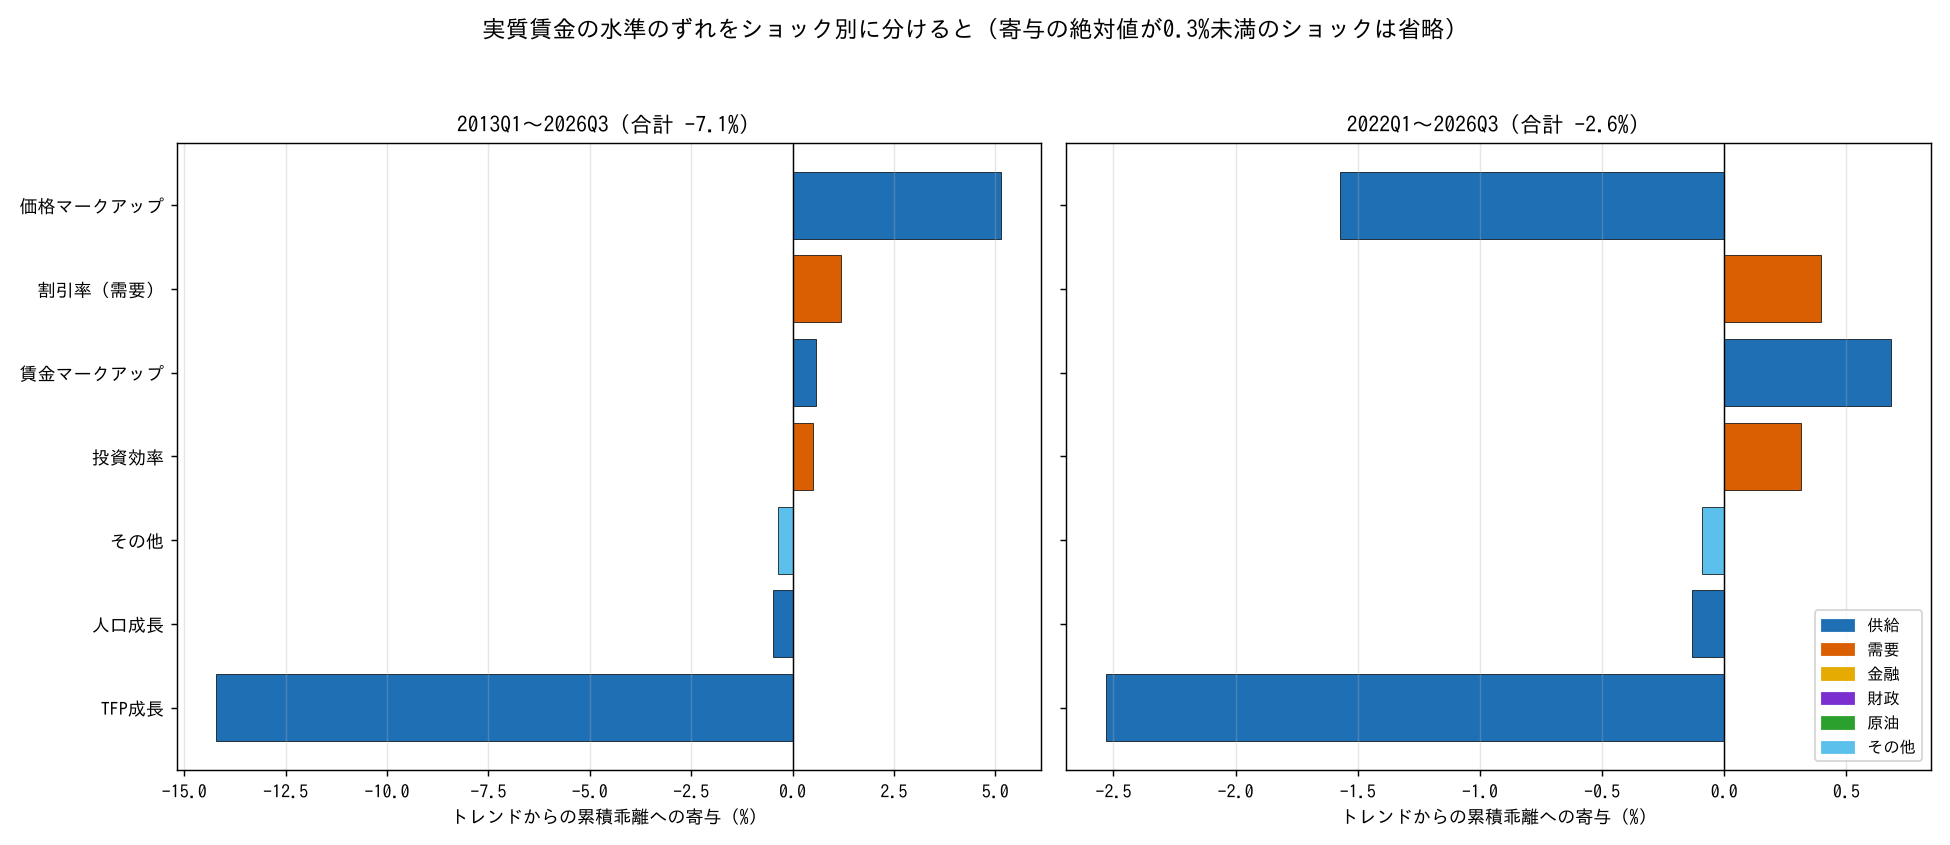
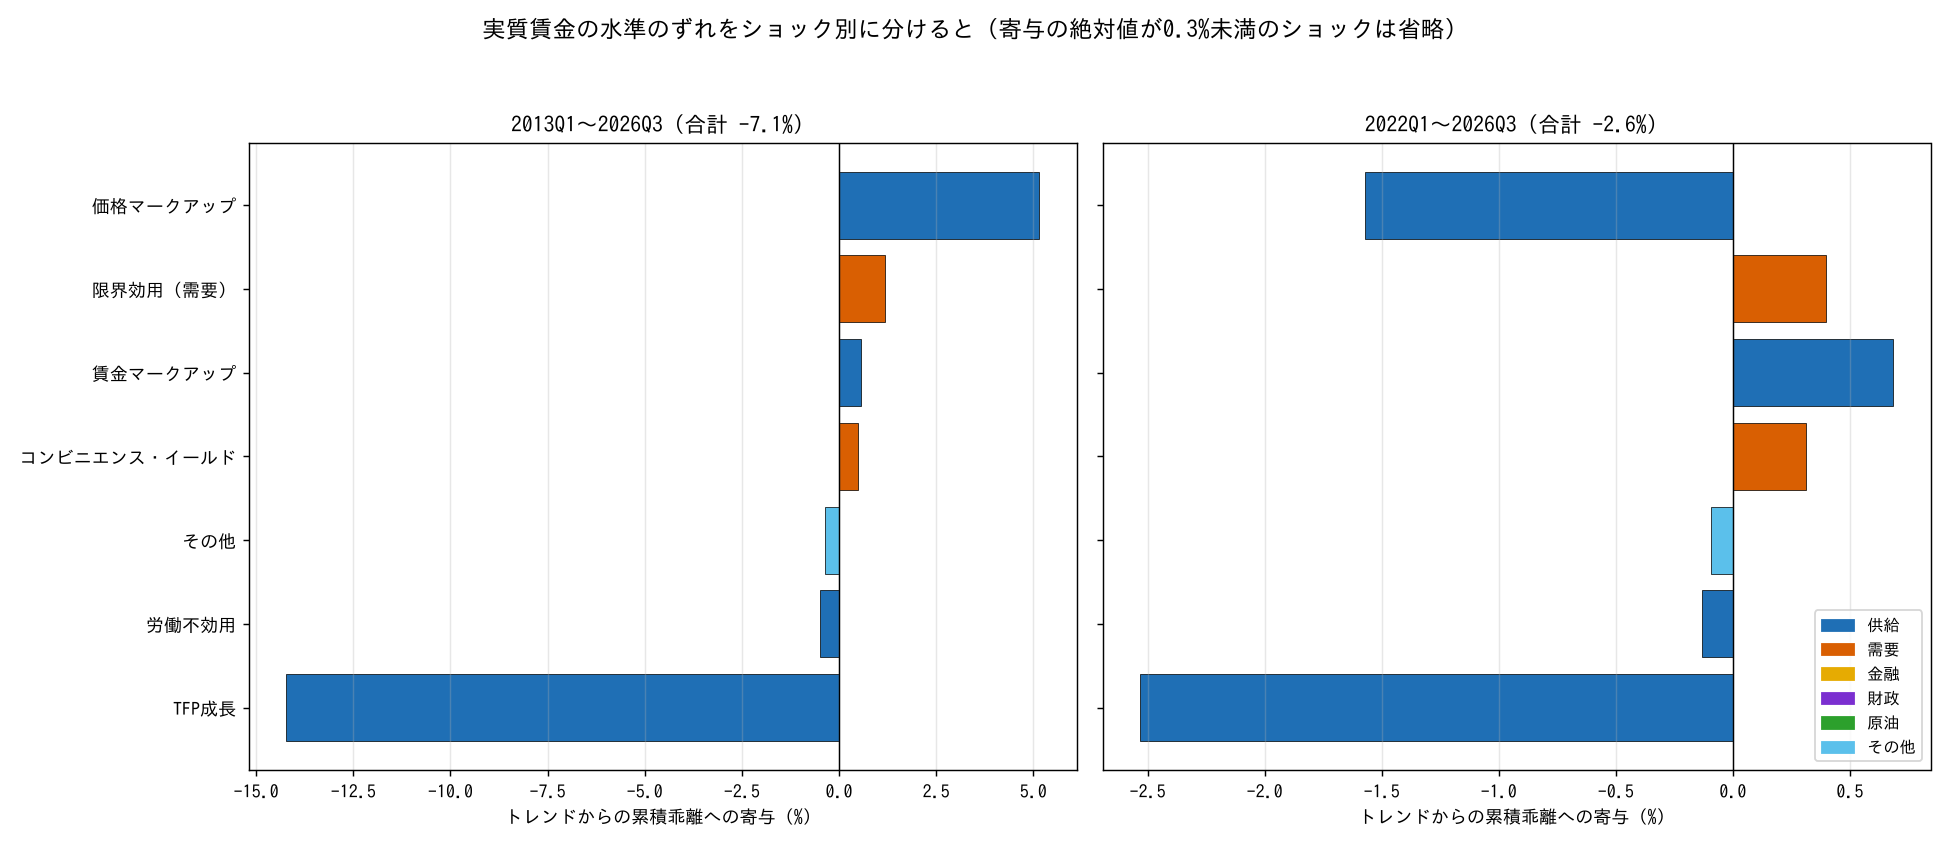
検討: 日本の年次TFP（PWT）を観測に足して実質賃金の分解を確かめる
jp/tfp_jp.py: PWT 11.0 の TFP を労働増大型に変換し、GZ の6期ラグで年平均の伸びとして観測。
測定誤差1/0.25/0.03%ptで比較。データの TFP は2013〜23年に平均並み(+0.2%)、モデルの推理は−11.7%。
強く寄せると主役が投資の限界効率に移る。ショック名の日本語ラベルを stlouis_dsge.SHOCKS に合わせて修正。

Claude-Session: https://claude.ai/code/session_01XkmtR5Q67N6BZHJLN4gc7T

diff --git a/jp/tfp_jp.py b/jp/tfp_jp.py
@@ -1,0 +1,215 @@
+"""
+検討: 日本の年次TFP（Penn World Table）を観測に足すと、実質賃金の歴史分解はどう変わるか
+
+使い方:
+  FRED_API_KEY=xxxx python jp/tfp_jp.py fetch   # PWT の TFP と労働分配率を FRED から取って data/tfp_pwt_jp.csv に保存
+  python jp/tfp_jp.py                           # 保存済みデータで比較の図と表を作る
+
+やり方（パラメータは本格版の事後平均のまま。推定し直してはいない）
+- データ: Penn World Table 11.0 の日本の TFP（RTFPNAJPA632NRUG, 国内価格・2019=1）と労働分配率（LABSHPJPA156NRUG）。年次、1990〜2023。
+  稼働率の調整はしていない（米国版の Fernald 系列と違う点）。
+- モデルの「TFP」は労働増大型（Y = K^α (Z N)^(1-α)）なので、PWT のヒックス中立型 TFP（A）の伸びを労働分配率で割って
+  dlog Z = dlog A / labsh に直す（Fernald の変換と同じ考え方）。サンプル（1995〜2023年）平均を引いて、定数は0。
+- 年次の値は「年平均の水準の伸び」なので、四半期の伸び（年率）の 7四半期の三角加重平均（1,2,3,4,3,2,1）/16 に当たる。
+  状態に TFP成長率 GZ の6期分のラグを足し、各年の第4四半期にだけ観測がある形にする。
+- 測定誤差（稼働率の変動や PWT の計測誤差）を i.i.d. で入れる。標準偏差は年率 ME_SD=1%pt を基本に、
+  0.25%pt と、データに強く寄せる 0.03%pt でも計算する（FORCE_SD）。
+"""
+import os
+import sys
+import json
+import urllib.request
+import numpy as np
+import pandas as pd
+
+HERE = os.path.dirname(os.path.abspath(__file__))
+sys.path.insert(0, HERE)
+sys.path.insert(0, os.path.dirname(HERE))
+import estimate_jp as E                                         # noqa: E402
+import hd                                                       # noqa: E402
+from hd_jp import parts_of                                      # noqa: E402
+from hd_jp_est import posterior_theta, run_est                  # noqa: E402
+from hd_jp_wage import ALL_SHOCKS, GROUPS, SHOCK_JP, to_level   # noqa: E402
+
+CSV = os.path.join(HERE, 'data', 'tfp_pwt_jp.csv')
+SERIES = {'rtfpna': 'RTFPNAJPA632NRUG', 'labsh': 'LABSHPJPA156NRUG'}
+W = np.array([1, 2, 3, 4, 3, 2, 1]) / 16                       # 年平均水準の伸び ← 四半期の伸び（年率）
+ME_SD = 1.0                                                     # 年次TFPの測定誤差（年率 %pt）
+FORCE_SD = 0.03                                                 # データに強く寄せるケース
+SAMPLE = ('1995', '2023')
+
+
+def fetch():
+    key = os.environ['FRED_API_KEY']
+    out = {}
+    for nm, sid in SERIES.items():
+        u = f'https://api.stlouisfed.org/fred/series/observations?series_id={sid}&api_key={key}&file_type=json'
+        obs = json.loads(urllib.request.urlopen(u, timeout=60).read())['observations']
+        out[nm] = pd.Series({int(o['date'][:4]): float(o['value']) for o in obs if o['value'] != '.'})
+    df = pd.DataFrame(out)
+    df.index.name = 'year'
+    df.to_csv(CSV, float_format='%.6f')
+    return df
+
+
+def load_tfp():
+    """年次の労働増大型TFP成長率（%）、サンプル平均からの乖離、平均"""
+    df = pd.read_csv(CSV, index_col=0)
+    g = 100 * np.log(df['rtfpna']).diff() / df['labsh']
+    mean = g.loc[int(SAMPLE[0]):int(SAMPLE[1])].mean()
+    return g, g - mean, mean
+
+
+def tfp_column(index, dev):
+    """四半期のインデックスに、各年の第4四半期だけ値を置いた列"""
+    y = pd.Series(np.nan, index=index)
+    for yr, v in dev.dropna().items():
+        t = pd.Timestamp(f'{yr}-10-01')
+        if t in y.index and int(SAMPLE[0]) <= yr:
+            y[t] = v
+    return y
+
+
+def augment(m, T, R, Z, d, q, me_sd=ME_SD):
+    """GZ の6期ラグと年次TFPの測定誤差を状態に足し、年次TFPの観測行を加える"""
+    n0, k0 = T.shape[0], R.shape[1]
+    nl = len(W) - 1
+    n1, k1 = n0 + nl + 1, k0 + 1
+    T1 = np.zeros((n1, n1)); T1[:n0, :n0] = T
+    R1 = np.zeros((n1, k1)); R1[:n0, :k0] = R
+    g = m.idx['GZ']
+    T1[n0, g] = 1.0                                             # L1_t = GZ_{t-1}
+    for k in range(1, nl):
+        T1[n0 + k, n0 + k - 1] = 1.0                            # Lk_t = L(k-1)_{t-1}
+    R1[n0 + nl, k0] = me_sd                                     # 測定誤差（i.i.d.）
+    row = np.zeros(n1)
+    c = 400 / m.p['GZ_bar']                                     # GZ の乖離 → 年率%の伸び（観測方程式 (109) と同じ）
+    row[g] = c * W[0]
+    row[n0:n0 + nl] = c * W[1:]
+    row[n0 + nl] = 1.0
+    Z1 = np.hstack([Z, np.zeros((Z.shape[0], nl + 1))])
+    Z1 = np.vstack([Z1, row])
+    d1 = np.append(d, 0.0)
+    q1 = np.hstack([q, np.ones((q.shape[0], 1))])
+    return T1, R1, Z1, d1, q1
+
+
+def run_with_tfp(theta, me_sd=ME_SD):
+    m, T, R, Z, d, q = E.build(theta)
+    T1, R1, Z1, d1, q1 = augment(m, T, R, Z, d, q, me_sd)
+    Y = E.DATA.reindex(columns=hd.OBS).values.copy()
+    for j, nm in enumerate(hd.OBS):
+        if nm not in E.OBS_USED:
+            Y[:, j] = np.nan
+    _, dev, _ = load_tfp()
+    Y = np.column_stack([Y, tfp_column(E.DATA.index, dev).values])
+    xs, eta, ll = hd.kalman_smoother(T1, R1, Z1, d1, Y, q1)
+    init, contrib = hd.decompose(T1, R1, xs, eta, m)
+    return m, Z1, d1, Y, xs, eta, ll, init, contrib
+
+
+def implied_annual_tfp(m, xs):
+    """平滑化された GZ から、PWT と同じ「年平均水準の伸び」（乖離, %）を作る"""
+    gz = pd.Series(400 / m.p['GZ_bar'] * xs[:, m.idx['GZ']], index=E.DATA.index)
+    a = sum(W[k] * gz.shift(k) for k in range(len(W)))
+    a = a[a.index.month == 10]
+    a.index = a.index.year
+    return a
+
+
+def wage_by_shock(m, init, contrib, xs, index):
+    q = parts_of(m, init, contrib, xs, 'wage_obs', index)
+    j = m.idx['wage_obs']
+    by = pd.DataFrame({s: contrib[:, m.sidx[s], j] for s in ALL_SHOCKS}, index=index)
+    by['その他'] = q['その他']
+    return q, by
+
+
+if __name__ == '__main__':
+    if len(sys.argv) > 1 and sys.argv[1] == 'fetch':
+        print(fetch().tail()); sys.exit()
+    import matplotlib
+    matplotlib.use('Agg')
+    import matplotlib.pyplot as plt
+    plt.rcParams['font.family'] = 'IPAGothic'
+    plt.rcParams['axes.unicode_minus'] = False
+    data = E.DATA
+    th = posterior_theta('mean')
+    g, dev, gmean = load_tfp()
+    print(f'PWT 労働増大型TFP成長率の平均（{SAMPLE[0]}〜{SAMPLE[1]}）: {gmean:.2f}%')
+
+    # ベースライン（TFP観測なし）
+    m0, T0, R0, Z0, d0, xs0, eta0, ll0, init0, contrib0 = run_est(th)
+    q0, by0 = wage_by_shock(m0, init0, contrib0, xs0, data.index)
+    a0 = implied_annual_tfp(m0, xs0)
+
+    res = {}
+    for sd in [ME_SD, 0.25, FORCE_SD]:
+        m1, Z1, d1, Y1, xs1, eta1, ll1, init1, contrib1 = run_with_tfp(th, sd)
+        q1, by1 = wage_by_shock(m1, init1, contrib1, xs1, data.index)
+        res[sd] = dict(q=q1, by=by1, a=implied_annual_tfp(m1, xs1), ll=ll1)
+        ok = data['wage'].notna()
+        print(f'ME {sd}: 実質賃金の推計値と実績の差', round((q1['合計'] - q0['合計'])[ok].abs().max(), 6))
+    r1, rf = res[ME_SD], res[FORCE_SD]
+    name = {ME_SD: f'TFP観測あり（測定誤差{ME_SD}%pt）', 0.25: 'TFP観測あり（測定誤差0.25%pt）',
+            FORCE_SD: f'TFP観測あり（測定誤差{FORCE_SD}%pt＝データに強く寄せる）'}
+
+    # 表: 累積寄与（ショック別）
+    rows = []
+    for lab, start, end in [('2013Q1〜2023Q4', '2013-01-01', '2023-10-01'), ('2013Q1〜2026Q3', '2013-01-01', None),
+                            ('2022Q1〜2026Q3', '2022-01-01', None)]:
+        for nm, by in [('TFP観測なし', by0)] + [(name[sd], res[sd]['by']) for sd in res]:
+            s = (by.loc[start:end] / 4).sum()
+            rows.append({'期間': lab, 'ケース': nm, 'TFP成長': s['GZ'], '投資の限界効率': s['zeta'], '価格マークアップ': s['mup'],
+                         '賃金マークアップ': s['muw'], '労働不効用': s['GN'], '供給計': s[hd.GROUPS['供給']].sum(),
+                         '需要計': s[hd.GROUPS['需要']].sum(), '金融計': s[hd.GROUPS['金融']].sum(),
+                         'その他': s['その他'], '合計': s.sum()})
+    tab = pd.DataFrame(rows)
+    tab.to_csv(os.path.join(HERE, 'data', 'tfp_jp_wage_compare.csv'), index=False, float_format='%.3f')
+    with pd.option_context('display.width', 250, 'display.max_columns', 20):
+        print(tab.round(2).to_string(index=False))
+
+    # 図1: 年次TFPの伸び（PWT）とモデルの推計
+    yrs = np.arange(1996, 2027)
+    fig, ax = plt.subplots(figsize=(14, 5.5))
+    ax.bar(dev.loc[1996:2023].index, dev.loc[1996:2023].values, color='#bbbbbb', edgecolor='k', lw=0.4,
+           label=f'データ：PWT 11.0（労働増大型, 平均{gmean:.2f}%からの乖離）')
+    ax.plot(yrs, a0.reindex(yrs).values, color='#d95f02', lw=2, marker='o', ms=4, label='モデル：TFP観測なし（いまの日本版）')
+    ax.plot(yrs, r1['a'].reindex(yrs).values, color='#1f6fb5', lw=1.5, ls='--', marker='s', ms=3, label=name[ME_SD])
+    ax.plot(yrs, rf['a'].reindex(yrs).values, color='#2ca02c', lw=2, marker='^', ms=4, label=name[FORCE_SD])
+    c0 = a0.loc[2013:2023].sum(); cd = dev.loc[2013:2023].sum()
+    ax.text(0.99, 0.97, f'2013〜2023年の累積：データ {cd:+.1f}%、モデル（観測なし） {c0:+.1f}%', transform=ax.transAxes,
+            ha='right', va='top', fontsize=11, bbox=dict(fc='w', ec='gray'))
+    ax.axhline(0, color='k', lw=0.8); ax.grid(alpha=0.3); ax.legend(loc='lower left', fontsize=9)
+    ax.set_ylabel('%pt（年平均水準の伸び, 平均からの乖離）')
+    ax.set_title('日本の TFP 成長率：データ（Penn World Table）とモデルが推理した値')
+    fig.tight_layout(); fig.savefig(os.path.join(HERE, 'figures', 'tfp_jp_annual.png'), dpi=130)
+
+    # 図2: 実質賃金の水準（2012Q4=0）の分解を、TFP観測なし・ほぼ一致を強制で並べる
+    from hd_jp import stacked
+    fig, axes = plt.subplots(2, 1, figsize=(15, 11), sharey=True)
+    for ax, (q, ttl) in zip(axes, [(q0, 'TFP観測なし（いまの日本版）'), (rf['q'], name[FORCE_SD])]):
+        lv = to_level(q, '2012-10-01').loc['2012-10-01':]
+        stacked(ax, lv, step=2, line_label='累積乖離（推計値＝実績）')
+        ax.set_title(f'実質賃金の水準（2012Q4＝0, トレンドからの累積乖離）：{ttl}')
+        ax.set_ylabel('%')
+    axes[0].legend(ncol=7, loc='lower left', fontsize=9)
+    fig.suptitle('TFPのデータに合わせると、実質賃金の低迷の説明はどう変わるか（グループ別）', fontsize=14)
+    fig.tight_layout(rect=[0, 0, 1, 0.97]); fig.savefig(os.path.join(HERE, 'figures', 'tfp_jp_wage_level.png'), dpi=130)
+
+    # 図3: ショック別の累積（2013Q1〜2023Q4: PWT がある期間）
+    sub = tab[tab['期間'] == '2013Q1〜2023Q4'].set_index('ケース')
+    cols = ['TFP成長', '投資の限界効率', '価格マークアップ', '賃金マークアップ', '労働不効用', '需要計', '金融計', 'その他', '合計']
+    fig, ax = plt.subplots(figsize=(14, 5.5))
+    xx = np.arange(len(cols)); w = 0.2
+    colors = ['#d95f02', '#9ecae1', '#1f6fb5', '#2ca02c']
+    for i, (cs, c) in enumerate(zip(sub.index, colors)):
+        ax.bar(xx + (i - 1.5) * w, sub.loc[cs, cols].values, w, color=c, edgecolor='k', lw=0.4, label=cs)
+    ax.set_xticks(xx); ax.set_xticklabels(cols); ax.axhline(0, color='k', lw=0.8); ax.grid(axis='y', alpha=0.3)
+    ax.set_ylabel('実質賃金の累積乖離への寄与（%）'); ax.legend(fontsize=9, loc='lower right')
+    ax.set_title('2013Q1〜2023Q4 の実質賃金の累積乖離（合計 −8.7%）をショック別に：TFP観測の有無で比べる')
+    fig.tight_layout(); fig.savefig(os.path.join(HERE, 'figures', 'tfp_jp_wage_shocks.png'), dpi=130)
+
+    print('年次TFP（乖離）: データ / 観測なし / 観測あり')
+    print(pd.DataFrame({'PWT': dev, 'なし': a0, 'あり': r1['a'], '強制': rf['a']}).loc[2008:2026].round(2))
+    print('対数尤度: 観測なし', round(ll0, 1), ' あり', {sd: round(res[sd]['ll'], 1) for sd in res})

diff --git a/jp/hd_jp_wage.py b/jp/hd_jp_wage.py
@@ -30,10 +30,10 @@ from stlouis_dsge import SHOCKS, COVID_SHOCKS                   # noqa: E402
 ALL_SHOCKS = [x[0] for x in SHOCKS + COVID_SHOCKS]               # コロナ期だけ動く3ショックも含める
 
 GROUPS = list(hd.GROUPS) + ['その他']
-SHOCK_JP = {'GZ': 'TFP成長', 'GN': '人口成長', 'zeta': '定常TFP', 'mup': '価格マークアップ', 'muw': '賃金マークアップ',
-            'N_cov': 'コロナ労働供給', 'chi': '割引率（需要）', 'vt': '投資効率', 'chi_cov': 'コロナ需要',
-            'mp': '金融政策', 'pistar': 'トレンドインフレ', 'g': '政府支出', 't': '移転', 't_cov': 'コロナ移転',
-            'oS': '原油供給'}
+SHOCK_JP = {'GZ': 'TFP成長', 'GN': '労働不効用', 'zeta': '投資の限界効率', 'mup': '価格マークアップ', 'muw': '賃金マークアップ',
+            'N_cov': 'コロナ労働供給', 'chi': '限界効用（需要）', 'vt': 'コンビニエンス・イールド', 'chi_cov': 'コロナ需要',
+            'mp': '金融政策', 'pistar': 'インフレ目標', 'g': '政府消費', 't': '移転支出', 't_cov': 'コロナ移転支出',
+            'oS': '原油供給'}                                        # stlouis_dsge.SHOCKS の名前に合わせる
 
 
 def wage_parts(theta, data):

diff --git a/tests/test_jp_wage.py b/tests/test_jp_wage.py
@@ -21,3 +21,23 @@ def test_wage_decomposition_adds_up_and_fits_data():
     lv = W.to_level(q, '2012-10-01')
     assert abs(lv.loc['2012-10-01', '合計']) < 1e-12
     assert abs(lv['合計'].iloc[-1] - (q.loc['2013-01-01':, '合計'] / 4).sum()) < 1e-8
+
+
+def test_tfp_obs_weights_and_augmentation():
+    """年次TFPの観測: 三角加重は合計1、観測行は GZ とそのラグにだけ乗る"""
+    import tfp_jp as F
+    assert abs(F.W.sum() - 1) < 1e-12
+    th = H.posterior_theta('mean')
+    m, T, R, Z, d, q = E.build(th)
+    T1, R1, Z1, d1, q1 = F.augment(m, T, R, Z, d, q, 1.0)
+    n0 = T.shape[0]
+    assert T1.shape[0] == n0 + 7 and Z1.shape[0] == Z.shape[0] + 1 and q1.shape[1] == q.shape[1] + 1
+    row = Z1[-1]
+    c = 400 / m.p['GZ_bar']
+    assert abs(row[m.idx['GZ']] - c / 16) < 1e-12 and np.allclose(row[n0:n0 + 6], c * F.W[1:])
+    assert np.count_nonzero(row) == 8                     # GZ・ラグ6つ・測定誤差
+    # 年次TFPを測定誤差大きめで足しても、賃金の推計値は実績のまま
+    m1, Z1, d1, Y, xs, eta, ll, init, contrib = F.run_with_tfp(th, 1.0)
+    q1, _ = F.wage_by_shock(m1, init, contrib, xs, E.DATA.index)
+    ok = E.DATA['wage'].notna()
+    assert np.nanmax(np.abs(q1['合計'][ok] - (E.DATA['wage'] - d[5])[ok])) < 1e-6

diff --git a/jp/README.md b/jp/README.md
@@ -293,7 +293,7 @@ python jp/hd_jp_wage.py
 | TFP成長（GZ、恒久的） | **−14.2%** | **−2.5%** |
 | 価格マークアップ（mup） | **+5.2%** | **−1.6%** |
 | 賃金マークアップ（muw） | +0.6% | +0.7% |
-| 割引率（需要, chi） | +1.2% | +0.4% |
+| 限界効用（需要, chi） | +1.2% | +0.4% |
 
 - **2013年以降の低迷は、ほぼ「供給」**。中身は「TFP成長が平均より低かった」こと（−14%）で、2016〜2020年の
   価格マークアップの低下（＝GDPデフレーターが賃金コストほど上がらなかった, +5%）が一部を打ち消した。
@@ -323,3 +323,69 @@ python jp/hd_jp_wage.py
 - 1人当たり（就業者数で割った）賃金なので、労働時間の短縮やパートタイム比率の上昇が「賃金の伸びの弱さ」として現れる。
   時間当たり賃金で見ると結果は変わりうる。
 - 2014・2019年の消費税増税はGDPデフレーターを押し上げるので、その期の実質賃金の落ち込みは供給ショックとして出る。
+
+---
+
+# 検討：日本のTFPのデータを観測に足すと、実質賃金の分解は変わるか
+
+上の実質賃金の分解では「TFP成長」が主役になった。ただし日本版は TFP の系列を観測していないので（米国版は Fernald の
+四半期TFPを観測）、この「TFP」は他の系列から**推理された**もの。そこで、実際に測った日本の TFP を観測に足して確かめた。
+
+```
+FRED_API_KEY=xxxx python jp/tfp_jp.py fetch   # データ取得（data/tfp_pwt_jp.csv、コミット済み）
+python jp/tfp_jp.py
+```
+
+## やり方
+- **データ**: Penn World Table 11.0 の日本の TFP（FRED `RTFPNAJPA632NRUG`）と労働分配率（`LABSHPJPA156NRUG`）。年次、2023年まで。
+  稼働率の調整はしていない。モデルの TFP は労働増大型なので、TFP の伸びを労働分配率で割って変換し（Fernald と同じ考え方）、
+  1995〜2023年の平均（年0.05%）を引いた。
+- **年次を四半期モデルに入れる**: 年平均の水準の伸びは、四半期の伸び（年率）の7四半期の三角加重平均（1,2,3,4,3,2,1）/16。
+  TFP成長率 GZ の6期分のラグを状態に足し、各年の第4四半期にだけ観測がある形にした。
+- **測定誤差**を i.i.d. で入れ、標準偏差 1%pt（基本）、0.25%pt、0.03%pt（データに強く寄せる）の3通り。
+- パラメータは本格版の事後平均のまま（**推定し直していない**）。
+
+## 図
+![TFP成長率：データとモデルの推理](figures/tfp_jp_annual.png)
+
+![TFP観測の有無と実質賃金の分解（グループ別）](figures/tfp_jp_wage_level.png)
+
+![TFP観測の有無と実質賃金の分解（ショック別）](figures/tfp_jp_wage_shocks.png)
+
+## 結果
+**1. データとモデルの「TFP」は、2013年以降まったく違う。** 2013〜2023年の累積で、PWT の TFP は平均並み（**+0.2%**）なのに、
+モデルが推理した TFP は平均を **−11.7%** 下回る。2015〜16年、2018〜19年、2022〜23年でとくにずれが大きい。
+
+**2. 現実的な測定誤差（1%pt）で足しても、分解はほとんど変わらない。** 推理された TFP はほぼ動かず、ずれは測定誤差が吸収する。
+ほかの10系列（とくに測定誤差なしで観測している賃金・消費・労働時間）が GZ をきつく決めているから。
+
+**3. データに強く寄せると（0.03%pt）、主役が「投資の限界効率」に移る。**
+
+| 2013Q1〜2023Q4 の実質賃金の累積乖離（合計 −8.7%） | TFP観測なし | 測定誤差1%pt | 0.25%pt | 0.03%pt（強く寄せる） |
+|---|---|---|---|---|
+| TFP成長 | −10.7 | −10.9 | −11.1 | **−3.4** |
+| 投資の限界効率 | 0.0 | −0.1 | −0.6 | **−10.0** |
+| 価格マークアップ | +2.6 | +2.7 | +3.0 | +4.5 |
+| 賃金マークアップ | −0.6 | −0.6 | −0.7 | −1.5 |
+| 需要計 | +1.2 | +1.2 | +1.5 | +4.4 |
+| 対数尤度（参考：観測なしは −2957） | — | −3038 | −3751 | −22295 |
+
+- 「生産性は平均並みだった」と言われると、モデルは「投資が弱くて資本の積み上がり（資本装備率）が足りず、1人当たりの
+  生産と賃金が伸びなかった」という話に切り替える。供給グループが主役なのは変わらない。
+- ただし対数尤度が大きく下がる（−2957 → −22295）。いまのパラメータのままでは、TFPのデータと他の系列を同時に
+  説明するのはかなり無理がある。
+
+## わかったこと
+- 実質賃金の分解に出てくる「TFP成長」は、**技術進歩そのものではなく「1人当たり実質賃金と生産にずっと残る弱さ」の受け皿**と
+  読むのが正しい。
+- この弱さの候補（モデルにないもの）:
+  - **1人当たり労働時間の減少**: PWT の平均労働時間は 2012→2023年で −7.4%（1995〜2023年の平均ペースより −2.2%）。
+    実質賃金を就業者1人当たりで観測しているので、短時間化がそのまま「賃金の弱さ」になる。TFP は労働時間で測るので影響されない。
+  - **資本装備率の伸びの鈍化**（上の 0.03%pt ケースの読み）。
+  - **交易条件・労働分配率**: 閉鎖経済のモデルには入っていない。
+- PWT は稼働率を調整していない年次の値で、2023年までしかない。数字は幅を持って見たい。
+
+## 次の一歩（候補）
+1. **実質賃金を時間当たりにする**（毎月勤労統計の総実労働時間で割る）か、1人当たり労働時間を観測に足す。いちばん手軽で効果が大きいはず。
+2. TFP を観測に入れたまま、測定誤差の大きさも含めて**推定し直す**（MCMC で数時間）。
+3. 法人企業統計（四半期の固定資産）と稼働率指数で、Fernald 型の**四半期TFP**を自作する。
